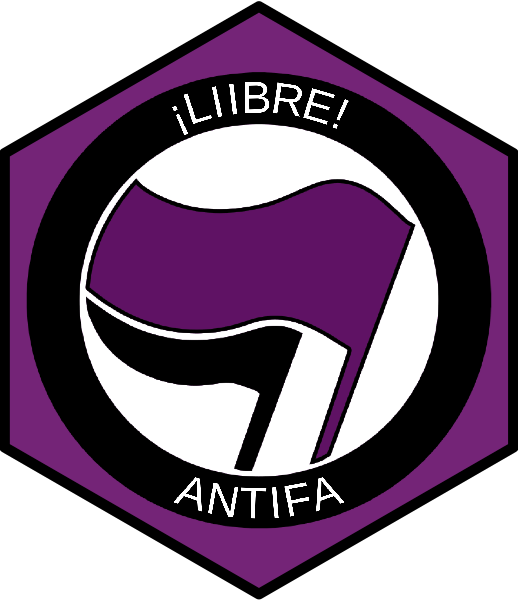
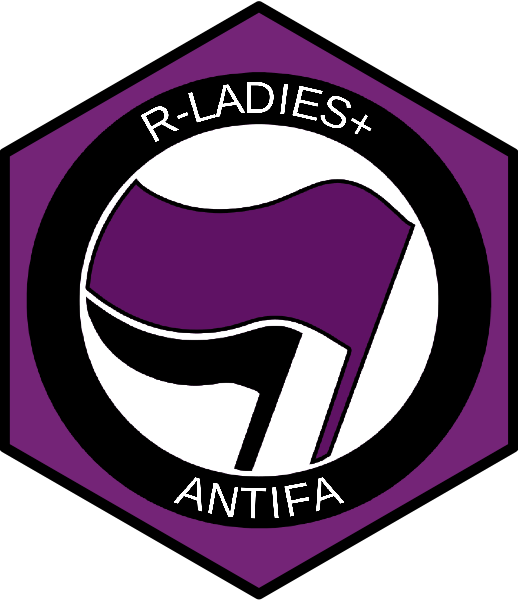
¬¬'

Changed region(s): [[0.278, 0.12, 0.7104, 0.24]]

diff --git a/README.md b/README.md
@@ -32,7 +32,7 @@ function `antifa()` creates the flag with the desired title.
 
 ``` r
 #antifa image
-antifa(text.size = 2.3)
+antifa(x = "¡liibre!", text.size = 2.3)
 ```
 
 ![](README_files/figure-gfm/examples-1.png)<!-- -->
@@ -47,8 +47,9 @@ antifa(x = "BIÓLOGXS", bg.col = "darkgreen", text.size = 2.3)
 antifa(x = "r-ladies+", bg.col = rladies, text.size = 2.3)
 ```
 
-![](README_files/figure-gfm/examples-3.png)<!-- --> To create the
-hexSticker the image should be on disk (`save = TRUE`)
+![](README_files/figure-gfm/examples-3.png)<!-- -->
+
+To create the hexSticker the image should be on disk (`save = TRUE`)
 
 ``` r
 antifa(save = TRUE)
@@ -69,3 +70,7 @@ sticker(antifa(save = TRUE),
 ```
 
 ![](hexsticker/rladies_antifa_red.png)
+
+![](hexsticker/rladies_antifa_purple.png)
+
+![](hexsticker/rladies_antifa_light_purple.png)
